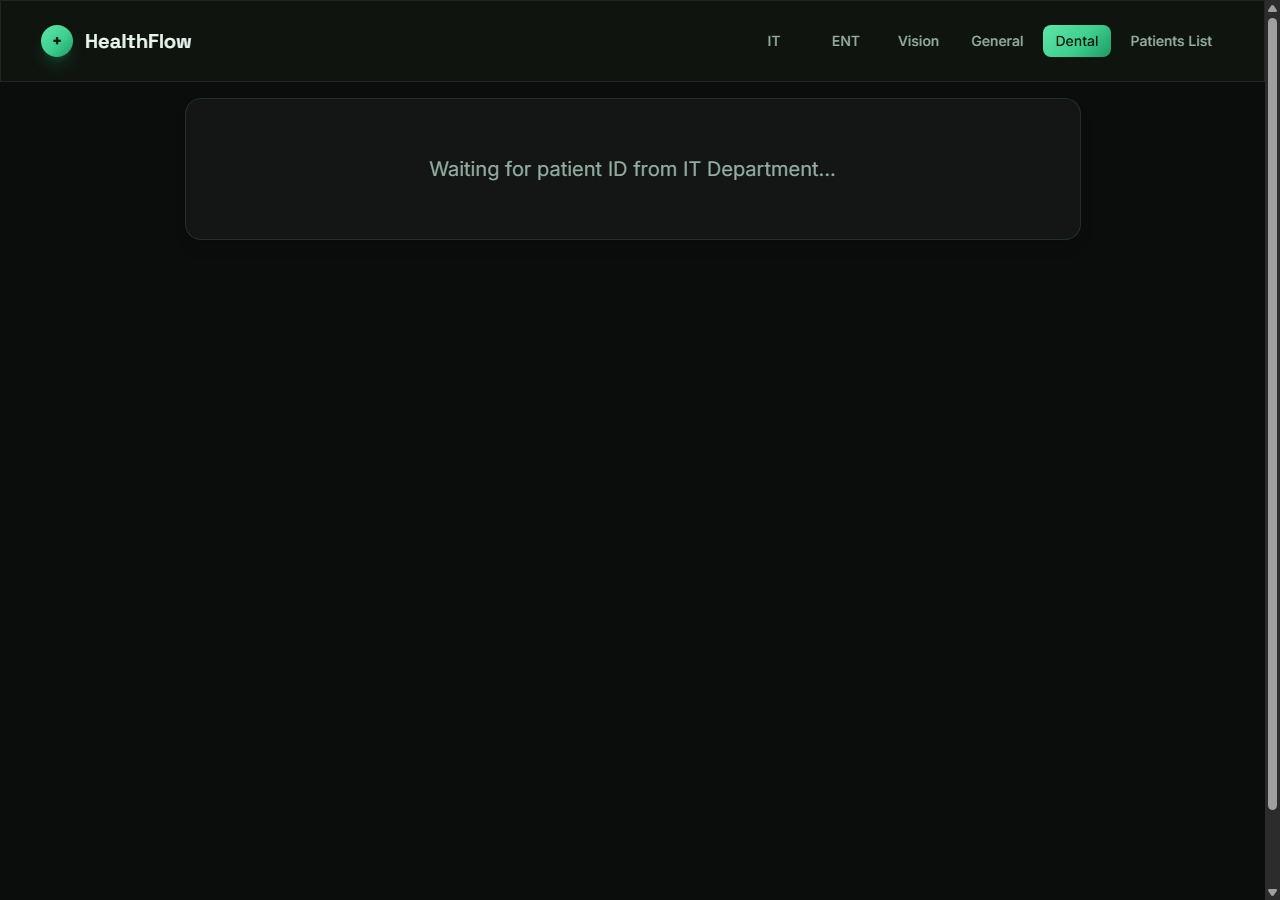
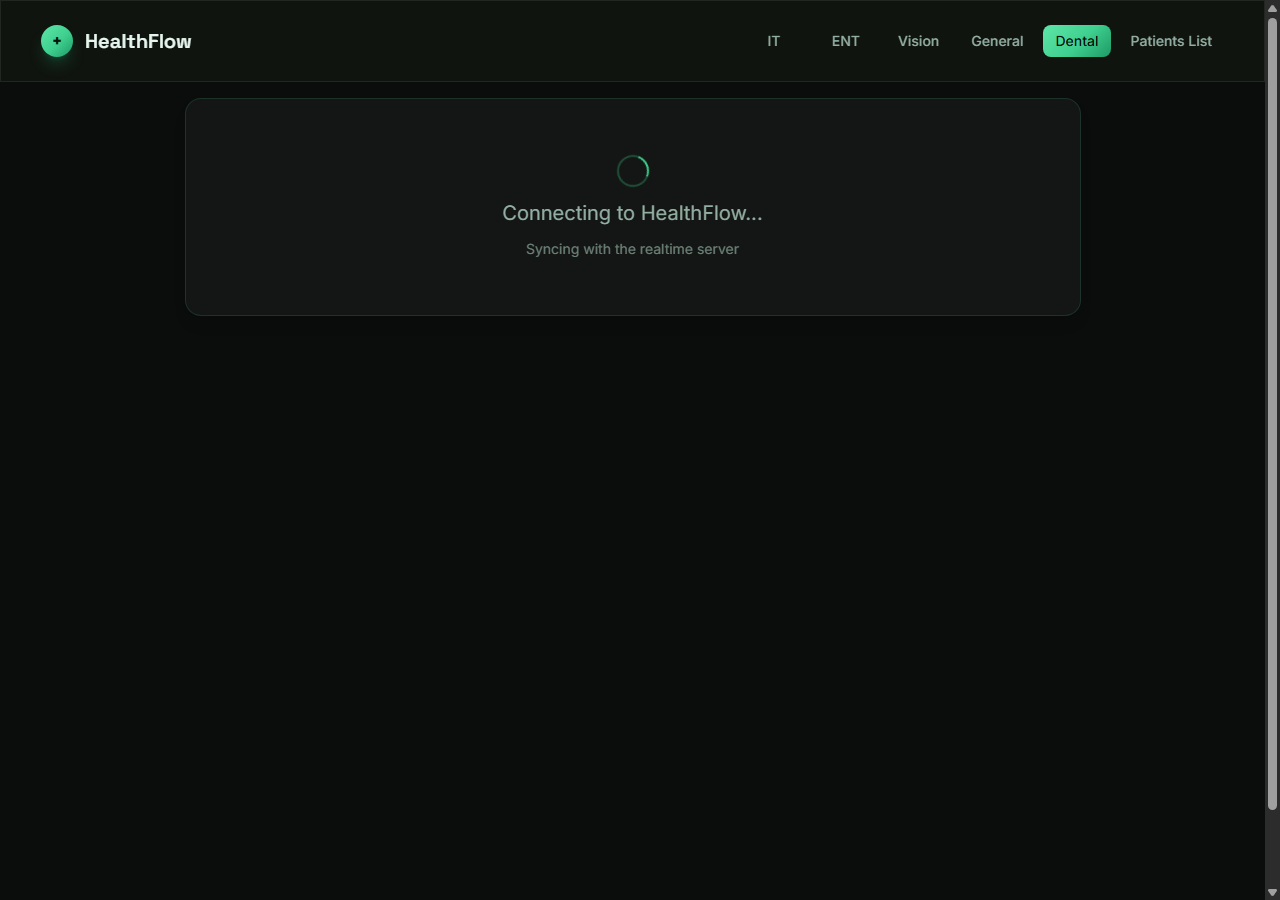
docs: refresh screenshots after the backend/frontend hardening pass

Changed region(s): [[0.3438, 0.1556, 0.625, 0.28]]

diff --git a/README.md b/README.md
@@ -72,9 +72,9 @@ header, so a style change only has to happen in one place.
 Captured live from [the deployed app](https://healthflow-abheet19.fly.dev), running against the real
 Fly Postgres backend.
 
-| IT dashboard (patient intake) | Dental dashboard (empty state) |
+| IT dashboard (patient intake) | Dental dashboard (Socket.IO connecting state) |
 |---|---|
-| ![IT dashboard](docs/screenshots/it-dashboard.png) | ![Dental dashboard waiting for a patient ID](docs/screenshots/dental-dashboard.png) |
+| ![IT dashboard](docs/screenshots/it-dashboard.png) | ![Dental dashboard connecting to the realtime server](docs/screenshots/dental-dashboard.png) |
 
 ![Patients list](docs/screenshots/patients-list.png)
 
